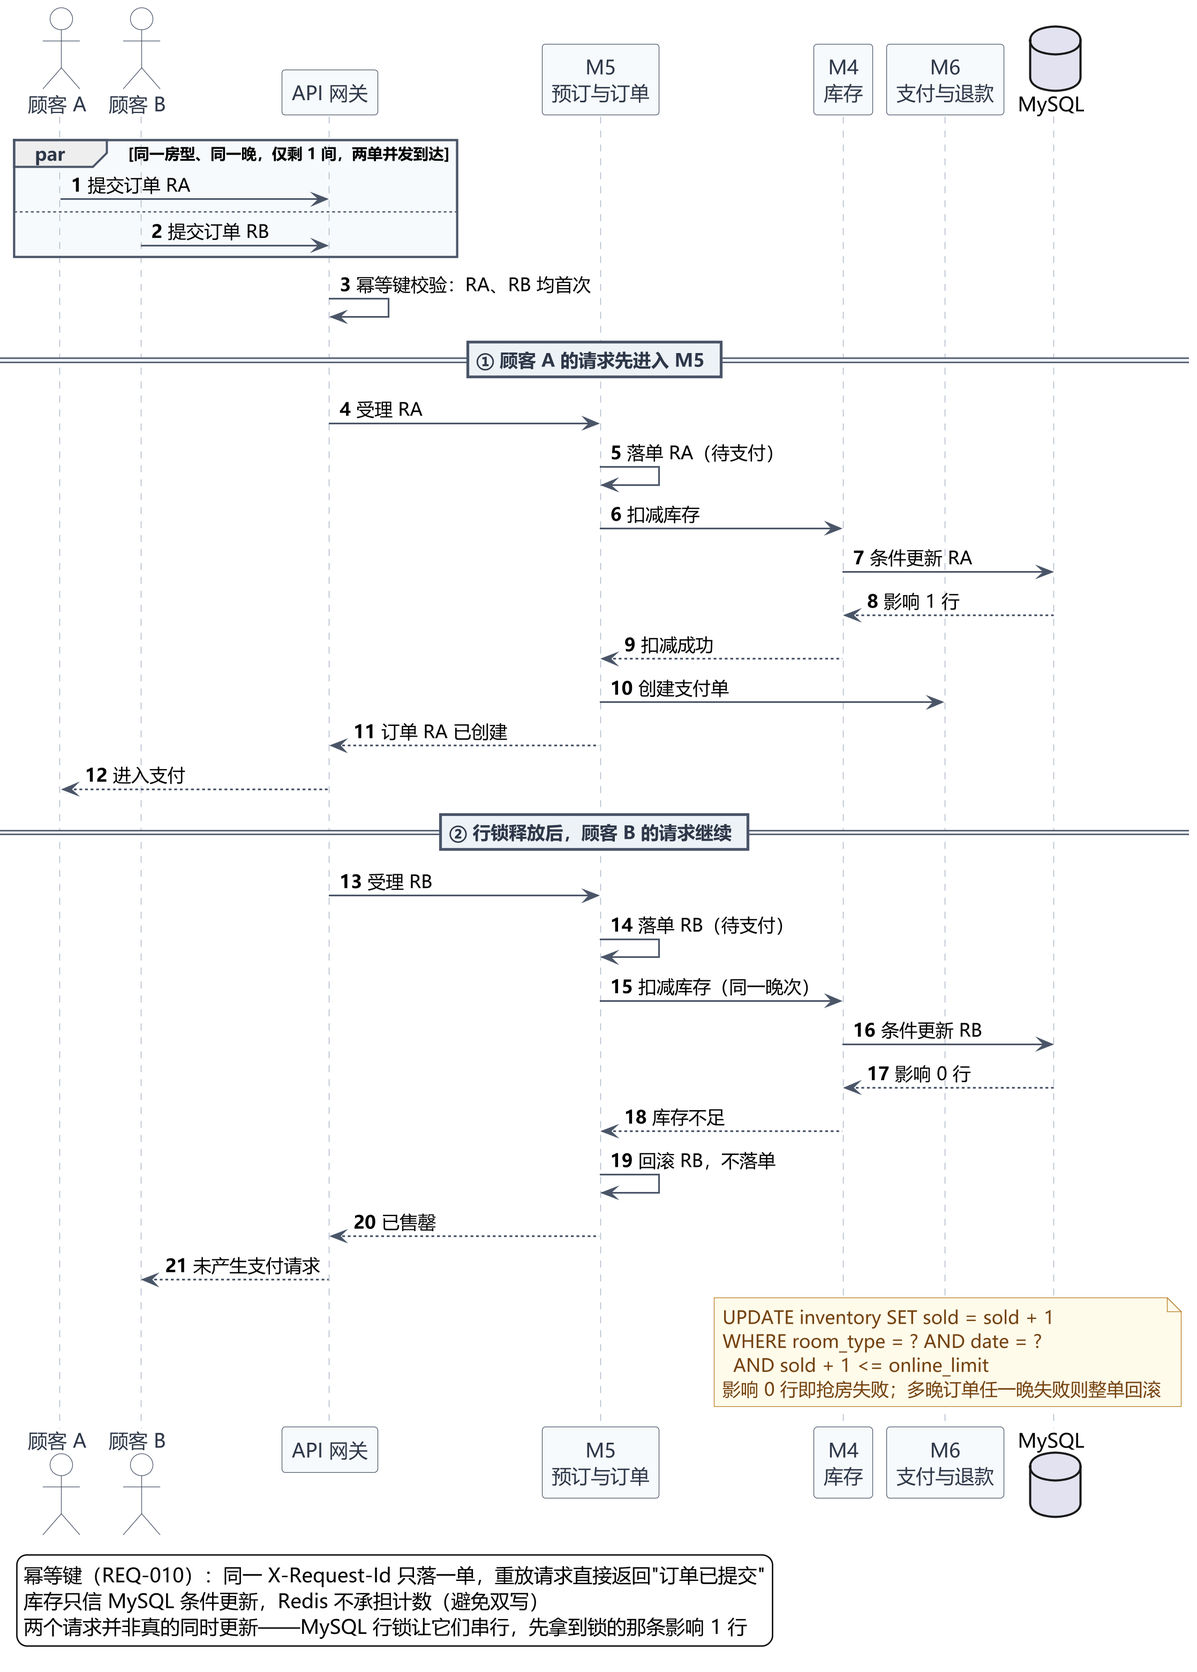
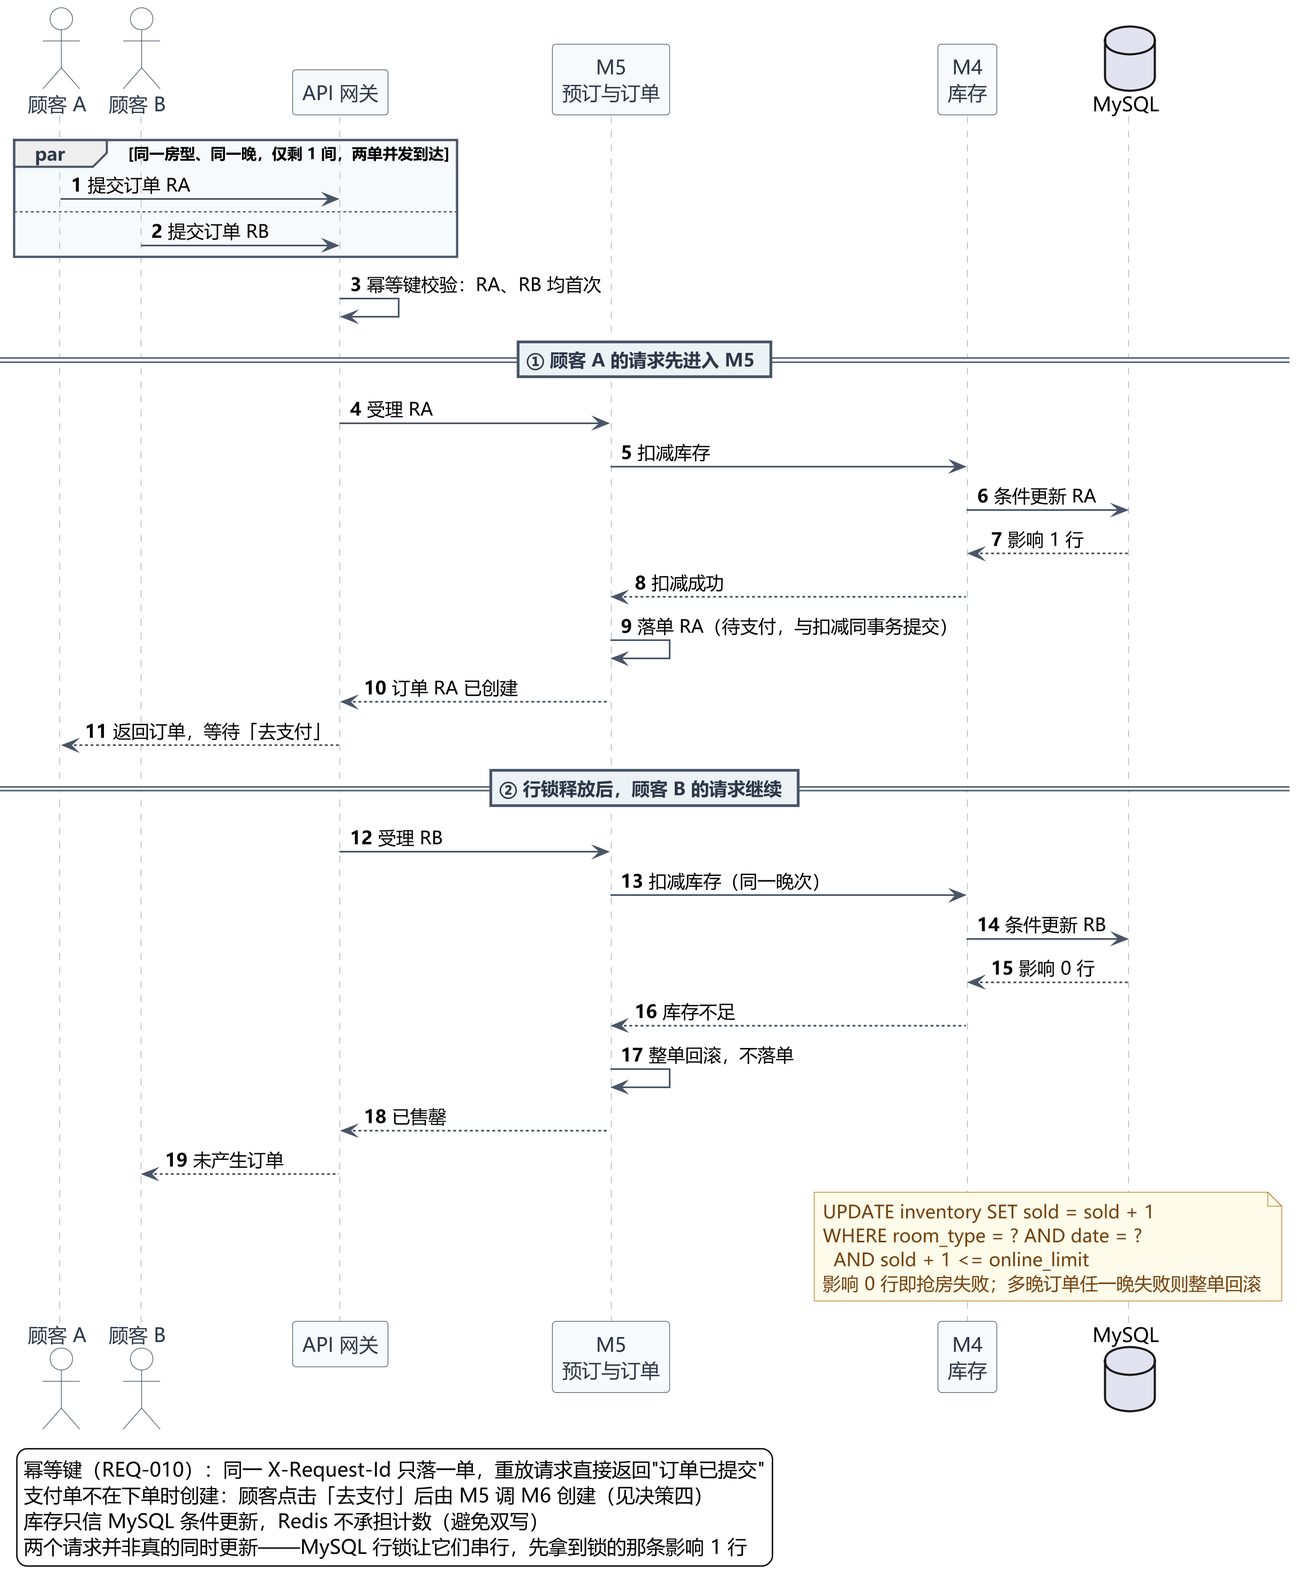
修正下单顺序与数据库缺口，补 git 提交记录
- 并发抢房时序图改为先条件扣减库存再落单，下单阶段不创建支付单
- 第 4 章补 region、schedule、price_range 三张表，表数 17 改为 20
- room 表补 store_id，房号改为门店内复合唯一
- 第 7 章新增 git 提交与人工修改记录，模块计数统一为八个业务加两个支撑
- 报告 58 页

diff --git a/实验报告/ch7.tex b/实验报告/ch7.tex
@@ -19,7 +19,7 @@ U-03 & 五处职责与接口分歧 & 职责表、组件图画法 & 初稿省略 
 U-04 & 19 屏跨屏数据一致性核对 & 修正后的 19 屏界面 & 库存、金额与取消规则不一致 \\
 U-05 & UML 图稿制作与排版 & 16 张 PlantUML 图及 PNG & 自动布局交叉，图稿还需核对业务含义 \\
 U-06 & UI 初稿制作与工具调整 & 19 屏 HTML/CSS 初稿及 Pixso 导出图 & 单屏生成易遗漏字段或编造数字 \\
-U-07 & 数据库表结构起草 & 第 4 章的 17 张表与约束说明 & 字段与业务流程的对应仍须逐项检查 \\
+U-07 & 数据库表结构起草 & 第 4 章的 20 张表与约束说明 & 初稿漏掉片区、排班、价格区间三个实体对应的表 \\
 \bottomrule
 \end{tabularx}
 \end{table}
@@ -98,7 +98,7 @@ U-07 & 数据库表结构起草 & 第 4 章的 17 张表与约束说明 & 字段
 
 \textbf{使用场景。} 为类图和下单、排房、退款等流程补出可供后续实现参考的数据存储结构。
 
-\textbf{生成结果。} AI 根据需求和类图起草第 4 章的 17 张表，列出主要字段、索引、唯一约束和条件更新方案；日库存按房型与日期记录，订单明细保存逐晚价格快照。
+\textbf{生成结果。} AI 根据需求和类图起草第 4 章的 17 张表，列出主要字段、索引、唯一约束和条件更新方案；日库存按房型与日期记录，订单明细保存逐晚价格快照。片区、排班、价格区间三个实体只在类图和界面中出现，初稿没有给出对应的表。
 
 \textbf{讨论与修改。} 这些表沿用 U-01--U-03 和 U-05 中讨论确定的模块与类结构。下单链路中，我提出先建订单再扣库存会让多人同时争最后一间房的问题，讨论后改为同一事务内先扣库存再建订单；排房记录和审批类的拆分也来自前述逐项选择。AI 再把这些决定反映到表和约束说明中。具体字段、索引主要由 AI 起草。
 
@@ -113,6 +113,43 @@ U-07 & 数据库表结构起草 & 第 4 章的 17 张表与约束说明 & 字段
 \textbf{校对、整改与我的理解。} 我逐章对照需求和图稿，指出架构说明过长、类图说明像在教读者看图、第 6 章配色参数与实验内容关系不大，要求 AI 删改。报告也写入我在讨论中形成的判断：下单先占「房型 $\times$ 日期」库存，入住前才分配具体房间；条件更新能防止最后一间房超卖，却不能保证严格按请求到达顺序成交。这些边界在第 3--5 章分别说明。
 
 \textbf{优缺点与修改结果。} AI 能较快形成完整初稿并查找跨章不一致；它也容易写出空泛的解释，批量压缩时可能删掉业务条件。修改后的报告保留具体设计决定、图表和需求依据；文字是否准确仍以实验一需求及最终图稿核对。
+
+\subsection{git 提交与人工修改记录}
+
+\textbf{记录方式。} 仓库从实验二第一版设计稿建立，此后每轮改动单独提交，提交信息写实际改了什么，不把 AI 初稿和人工修改拆成两个编造出来的提交。截至本轮修改前共 9 次提交：
+
+\begin{table}[H]
+\centering
+\caption{主要提交与改动性质}
+\tabfont
+\begin{tabularx}{\textwidth}{@{}L{1.6cm}L{2.0cm}X@{}}
+\toprule
+提交 & 日期 & 改动内容与性质 \\
+\midrule
+\texttt{c9c2ba3} & 2026-11-01 & 基线入库：报告、16 张 UML、16 屏 UI 的定稿 \\
+\texttt{6ce9ba9} & 2026-11-01 & 补记排版、出图与核对阶段的实际问题 \\
+\texttt{fe80d2b} & 2026-11-01 & 补齐 17--19 屏；界面人物改为虚构角色，避免使用真实姓名 \\
+\texttt{4d22af0} & 2026-11-08 & 保存 Pixso 中调整后导出的 UI 图片 \\
+\texttt{74b7a2e} & 2026-11-08 & 按本人意见重写报告正文与 AI 使用记录 \\
+\texttt{a9d9f76} & 2026-11-08 & 报告写作一节改为「先讨论、再起草、后校对」的实际顺序 \\
+\texttt{347934e} & 2026-11-08 & 统一 AI 设计与总结两处的协作流程表述 \\
+\texttt{8544262} & 2026-11-08 & 第 8.3 节由八项未完成事项精简为两项 \\
+\texttt{a822c19} & 2026-11-08 & 删除实验二不要求的「与实验三的衔接」一节 \\
+\bottomrule
+\end{tabularx}
+\end{table}
+
+\textbf{人工修改的三类证据。} 提交记录本身只说明改了什么，判断依据分别如下。
+
+\begin{enumerate}[leftmargin=3.2em]
+  \item \textbf{推翻 AI 的技术方案。} 起草 U-07 时，AI 给的顺序是先建订单再扣库存。我指出这样多人抢最后一间房时会超卖，要求改为同一事务内先条件扣减库存、再建订单；支付单也不在下单时创建，改为点击「去支付」时由 M5 调 M6 创建。这一改动同时反映在类图、时序图和第 3、4 章。
+  \item \textbf{压缩篇幅、改变交代口径。} 第 8.3 节初稿列了八项未完成事项，我认为其中多数是前文已说明的设计边界，重复罗列只会给评分提供判据，要求收成「接口参数与错误码」「现有界面的少量异常提示」两项。第 1 章、第 3 章和第 5 章的教学式铺垫也由我逐次指出后删除。
+  \item \textbf{删掉要求之外的内容。} 报告末尾原有的「对实验三的衔接」一节，我对照实验二要求确认并非必需，要求删除；第 6.1.1 节的布局配色参数同样因与实验内容无关而删除。
+\end{enumerate}
+
+\textbf{本轮新增的三张表。} 对照类图核对数据表时发现，类图里的片区、排班、价格区间三个实体在第 4 章没有对应表，\texttt{user} 和 \texttt{store} 的 \texttt{region\_id} 也因此没有父表。据此补 \texttt{region}、\texttt{schedule}、\texttt{price\_range} 三张表，表数由 17 改为 20，属本轮人工核对后发现的缺口。
+
+\textbf{早期迭代的处理。} 首次入库之前的设计迭代（模块从 10 个减到 9 个又回到 10 个、类图十余版、状态图二十余版）没有以提交形式保留。把它拆成「AI 初稿 / 人工修改」两个提交可以做出好看的差异记录，但那个初稿是按最终稿反推的，不是当时真实的文件，因此没有这样补。真实过程记在本章各条记录和 \texttt{\_过程材料/AI使用记录.md} 中。
 
 \subsection{大模型如何辅助软件设计}
 

diff --git a/实验报告/ch4.tex b/实验报告/ch4.tex
@@ -20,7 +20,7 @@
 
 \subsection{核心表清单}
 
-共 17 张表，其中 12 张核心表承载业务，5 张辅助表承载流转与留痕。
+共 20 张表：12 张核心表承载业务，5 张辅助表承载流转与留痕，3 张组织与配置表承载片区、排班与平台价格区间。
 
 \begin{table}[H]
 \centering
@@ -48,12 +48,32 @@
 \texttt{audit\_log} & 审计日志 & 只增不改，无 UPDATE/DELETE 权限 \\
 \texttt{notice} & 通知记录 & 失败原因、重试次数、下次重试时间 \\
 \texttt{reconciliation} & 对账记录 & 每日差异与处理结果 \\
+\midrule
+\texttt{region} & 片区 & 片区编号与名称；门店的上级组织 \\
+\texttt{schedule} & 排班 & 唯一（员工，日期，班次）；同时引用门店与员工 \\
+\texttt{price\_range} & 价格区间 & 平台按门店下发的价格上下限与生效日期 \\
 \bottomrule
 \end{tabularx}
 \end{table}
 \subsection{表结构}
 
-\subsubsection{账号与门店}
+\subsubsection{账号、门店与组织}
+
+\begin{table}[H]
+\centering
+\caption{\texttt{region} 片区表}
+\tabfont
+\begin{tabularx}{\textwidth}{@{}L{2.7cm}L{2.9cm}L{2.6cm}X@{}}
+\toprule
+字段 & 类型 & 约束 & 说明 \\
+\midrule
+region\_id & CHAR(20) & PK & 片区编号 \\
+name & VARCHAR(32) & UNIQUE & 片区名称 \\
+\bottomrule
+\end{tabularx}
+\end{table}
+
+片区是平台地区负责人的数据范围单位：\texttt{user.region\_id} 与 \texttt{store.region\_id} 都指向本表，负责人只看到本片区内的门店、员工与绩效（REQ-007、REQ-026）。
 
 \begin{table}[H]
 \centering
@@ -77,6 +97,27 @@ status & TINYINT & NOT NULL & 1 正常 / 2 停用 \\
 
 \texttt{store} 表字段为 \texttt{store\_id}（PK）、\texttt{name}、\texttt{city}、\texttt{area}（地段）、\texttt{region\_id}（FK）、\texttt{business\_status}（1 营业 / 2 停业）。停业只影响新订单，不影响已有订单（REQ-006）。
 
+\begin{table}[H]
+\centering
+\caption{\texttt{schedule} 排班表}
+\tabfont
+\begin{tabularx}{\textwidth}{@{}L{2.7cm}L{2.9cm}L{2.6cm}X@{}}
+\toprule
+字段 & 类型 & 约束 & 说明 \\
+\midrule
+schedule\_id & CHAR(20) & PK & 排班编号 \\
+user\_id & CHAR(20) & FK & 前台账号 \\
+store\_id & CHAR(20) & FK & 所属门店，须与 \texttt{user.store\_id} 一致 \\
+work\_date & DATE & NOT NULL & 班次日期 \\
+shift & TINYINT & NOT NULL & 1 早班 / 2 中班 / 3 晚班 \\
+check\_in\_at & DATETIME & NULL & 打卡上班时间 \\
+check\_out\_at & DATETIME & NULL & 打卡下班时间 \\
+\bottomrule
+\end{tabularx}
+\end{table}
+
+排班以「员工、日期、班次」唯一，同一前台在同一天的不同班次可以各有一条记录。打卡时间记在同一条记录上而不另建表：打卡只对已排的班次有意义，分离后反而需要额外校验两者对应关系（REQ-006、REQ-026）。
+
 \subsubsection{房源}
 
 \begin{table}[H]
@@ -98,14 +139,17 @@ on\_sale & TINYINT & NOT NULL & 1 上架 / 2 下架 \\
 \midrule
 \multicolumn{4}{@{}l}{\textbf{room 房间}} \\
 room\_id & CHAR(20) & PK & 房间编号 \\
+store\_id & CHAR(20) & FK & 所属门店，须与房型的所属门店一致 \\
 room\_type\_id & CHAR(20) & FK & 所属房型 \\
-room\_no & VARCHAR(10) & UNIQUE(门店) & 房号，如 408 \\
+room\_no & VARCHAR(10) & 复合唯一 & 房号，如 408；唯一索引为（store\_id, room\_no） \\
 floor & TINYINT & NOT NULL & 楼层；房型与楼层绑定，见 1.5 节 \\
 status & TINYINT & NOT NULL & 六种房态之一 \\
 repair\_until & DATE & NULL & 预计修复日期，为空表示无维修计划 \\
 \bottomrule
 \end{tabularx}
 \end{table}
+
+\texttt{room} 表冗余保存 \texttt{store\_id}，是为了让「同一门店房号唯一、不同门店可重号」能由唯一索引直接保证；若只保留 \texttt{room\_type\_id}，唯一约束就要跨表引用房型的所属门店，数据库无法建立这样的索引。写入房间时校验 \texttt{store\_id} 与房型一致。
 
 \texttt{repair\_until} 这一列是 M4 计算可售上限的依据。它放在房间档案上而不是工单上，是为了让库存只依赖 M2 一个模块（见 3.3 节边界约定一）。同一房间重复登记维修只覆盖该列，不重复扣减（REQ-034）。
 
@@ -146,6 +190,26 @@ offline\_sold & SMALLINT & NOT NULL DEFAULT 0 & 线下已售 \\
 \]
 
 店长可手动下调线上可售上限，但不得高于公式值；这一设置保留了 REQ-006 的调整入口，同时满足 REQ-033 的上限约束。
+
+\begin{table}[H]
+\centering
+\caption{\texttt{price\_range} 价格区间表}
+\tabfont
+\begin{tabularx}{\textwidth}{@{}L{2.7cm}L{2.9cm}L{2.6cm}X@{}}
+\toprule
+字段 & 类型 & 约束 & 说明 \\
+\midrule
+range\_id & CHAR(20) & PK & 区间编号 \\
+store\_id & CHAR(20) & FK & 接收该区间的门店 \\
+effective\_date & DATE & NOT NULL & 生效日期 \\
+min\_price & DECIMAL(10,2) & NOT NULL & 当日价格下限 \\
+max\_price & DECIMAL(10,2) & NOT NULL & 当日价格上限 \\
+created\_by & CHAR(20) & FK & 下发该区间的平台地区负责人 \\
+\bottomrule
+\end{tabularx}
+\end{table}
+
+价格区间按「门店、生效日期」生效，同一天有多个区间时取最新一条；店长设定日价时校验其落在区间内。区间下调后已超出的当日价格不自动改价，只提示店长调整（REQ-007）。区间本身不参与下单链路，只在下单取价时用于校验，因此与日价分开存表。
 
 \subsubsection{订单与明细}
 

diff --git a/实验报告/app.tex b/实验报告/app.tex
@@ -88,25 +88,22 @@ REQ-036 & 账号注册与登录 & —— & —— & 待确认，不覆盖 \\
 \noindent\hspace*{4em}UML时序图\_并发抢房.png\qquad UML时序图\_改价互斥.png\par
 \noindent\hspace*{4em}UML时序图\_支付回调.png\qquad UML时序图\_超时释放与对账.png\par
 \noindent\hspace*{2em}UI界面/\par
-\noindent\hspace*{4em}01\_home\_search.png\qquad 02\_search\_result.png\par
-\noindent\hspace*{4em}03\_hotel\_detail.png\qquad 04\_order\_confirm.png\par
-\noindent\hspace*{4em}05\_payment.png\qquad 06\_my\_orders.png\par
-\noindent\hspace*{4em}07\_review\_submit.png\qquad 08\_room\_board.png\par
-\noindent\hspace*{4em}09\_checkin.png\qquad 10\_housekeeping.png\par
-\noindent\hspace*{4em}11\_walkin\_order.png\qquad 12\_price\_calendar.png\par
-\noindent\hspace*{4em}13\_approval\_center.png\qquad 14\_roster\_review.png\par
-\noindent\hspace*{4em}15\_region\_overview.png\qquad 16\_price\_range\_staffing.png\par
-\noindent\hspace*{4em}17\_message\_center.png\qquad 18\_audit\_log.png\par
+\noindent\hspace*{4em}01\_home\_search.png\qquad 02\_search\_result.png\qquad 03\_hotel\_detail.png\par
+\noindent\hspace*{4em}04\_order\_confirm.png\qquad 05\_payment.png\qquad 06\_my\_orders.png\par
+\noindent\hspace*{4em}07\_review\_submit.png\qquad 08\_room\_board.png\qquad 09\_checkin.png\par
+\noindent\hspace*{4em}10\_housekeeping.png\qquad 11\_walkin\_order.png\qquad 12\_price\_calendar.png\par
+\noindent\hspace*{4em}13\_approval\_center.png\qquad 14\_roster\_review.png\qquad 15\_region\_overview.png\par
+\noindent\hspace*{4em}16\_price\_range\_staffing.png\qquad 17\_message\_center.png\qquad 18\_audit\_log.png\par
 \noindent\hspace*{4em}19\_store\_staff.png\par
 }
 
 \section{图的绘制方式}
 
-全部 16 张 UML 图由 PlantUML 绘制，源文件（\texttt{.puml}）与导出图（\texttt{.png}）同名放在 \texttt{UML/} 下，可用以下命令重新生成：
+16 张 UML 图均由 PlantUML 绘制，源文件与导出图同名存放在 \texttt{UML/} 下，重新生成方式如下：
 
 \begin{quote}
 \zihao{5}\ttfamily
 java -jar plantuml.jar -charset UTF-8 -tpng UML/*.puml
 \end{quote}
 
-统一的绘图约定：白底、深灰线、单一强调色；中文字体统一为 Microsoft YaHei；结构图与行为图宽度按内容自适应，时序图与活动图固定较窄的画幅以便插入正文。19 屏界面用 HTML 与 CSS 生成初稿、导入 Pixso 人工调整后，按 2 倍像素密度导出 PNG（顾客端 780 $\times$ 1688，后台 2944 $\times$ 1864，其中含 16\,px 的圆角外框留白），因此插入报告后文字仍可辨认；产出流程见第 6 章开头。
+绘图约定为白底、深灰线、单一强调色，中文字体统一为 Microsoft YaHei。19 屏界面由 HTML/CSS 生成初稿、经 Pixso 调整后按 2 倍像素密度导出，流程见第 6 章开头。

diff --git a/实验报告/ch8.tex b/实验报告/ch8.tex
@@ -15,7 +15,7 @@
 \midrule
 写明软件的主要功能 & 第 2 章 & 10 模块 + 36 条追溯 & 需求逐条落模块，跨模块与不覆盖的单独标注 \\
 架构设计 UML 与设计原因 & 第 3 章 & 包图 / 组件图 / 部署图 + 八条决策 & 描述模块关系与主要取舍 \\
-数据库设计 & 第 4 章 & 17 张表 & 给出字段、索引及库存等业务约束 \\
+数据库设计 & 第 4 章 & 20 张表 & 给出字段、索引及库存等业务约束 \\
 三类 UML 图，总数不少于四张，类图必画 & 第 5 章 & 16 张 & 结构 4、行为 8、交互 4，全部 PlantUML 绘制 \\
 各模块 UI 界面及功能描述 & 第 6 章 & 19 屏 & 四端各屏的元素、状态与对应需求 \\
 AI 使用过程记录 & 第 7 章 & 设计阶段 7 组，另有报告改稿 & 说明事前讨论、AI 生成与本人校改 \\

diff --git a/实验报告/ch1.tex b/实验报告/ch1.tex
@@ -29,7 +29,7 @@
 \midrule
 功能与模块 & 第 2 章 & 四类角色各能做什么，实验一的需求分别落在哪个模块。 \\
 架构与模块交互 & 第 3 章 & 模块职责、交互关系及划分依据。 \\
-数据与 UML & 第 4、5 章 & 17 张表的关键字段与约束；类图、状态图和时序图如何对应业务规则。 \\
+数据与 UML & 第 4、5 章 & 20 张表的关键字段与约束；类图、状态图和时序图如何对应业务规则。 \\
 界面设计 & 第 6 章 & 19 屏界面分别服务哪些角色和功能模块。 \\
 AI 辅助与人工核对 & 第 7 章 & 每次辅助生成了什么、发现了什么问题、最后怎样修改。 \\
 \bottomrule

diff --git a/实验报告/ch3.tex b/实验报告/ch3.tex
@@ -25,7 +25,7 @@
 \begin{itemize}
   \item \textbf{表现层}：按角色展示界面并校验表单；业务校验仍由服务端执行（REQ-027）。
   \item \textbf{接入层}：处理鉴权、限流、幂等键和审计记录。
-  \item \textbf{领域层}：按十个业务模块组织规则，通过仓储接口访问数据。
+  \item \textbf{领域层}：按八个业务模块组织规则，通过仓储接口访问数据。
   \item \textbf{基础设施层}：提供仓储实现、消息队列、Redis 及支付、短信适配器。
 \end{itemize}
 

diff --git a/_过程材料/AI使用记录.md b/_过程材料/AI使用记录.md
@@ -183,3 +183,14 @@
 - **讨论与判断**：本轮修改方向由本人明确提出；UML 类的取舍、组件图画法、排房与下单顺序等选择均取自此前实际讨论。AI 编写图稿与 HTML/CSS 页面、本人在 Pixso 调整部分界面的分工按现有记录描述，不补造具体操作日期。
 - **修改优化后的结果**：`实验报告/ch6.tex`、`ch7.tex`、`ch8.tex` 更新，并补记 U-05--U-07。
 - **优缺点分析**：按产物补记比仅列几次时间更能说明 AI 的实际工作量和人的判断；部分早期生成步骤没有完整逐次记录，不能从最终文件倒推每一次调用。
+
+---
+
+### R-06 模拟评审后的四处修改
+
+- **时间**：2026-11-08
+- **使用场景与输入**：本人要求另起一个评价 Agent，以助教视角按实验二要求给报告打分，再按结论修改。输入是当时的报告 PDF、UML、UI、提交包和实验一需求。
+- **AI 生成结果**：评价 Agent 给出 86 分的模拟评分和 8 条已证实问题，其中 zip 未同步、并发抢房时序图与正文矛盾、类图中的片区/排班/价格区间三表缺失、第 7 章无 git 与人工修改记录四条影响最大。
+- **讨论与判断**：本人核对后选定四项修改：修时序图与正文的下单顺序、补三张表、补 git 提交与人工修改记录、统一模块计数并修 room 表约束。评价 Agent 自报的“ch4 使用 region_id 却无父表”经核对属实（ch4 中写作 `region\_id`），据此一并补表。评分是本轮自拟口径的模拟值，不代表教师评分。
+- **修改优化后的结果**：`UML时序图_并发抢房.puml` 改为先扣库存再落单、下单时不创建支付单；第 4 章表数由 17 增至 20，补 `region`、`schedule`、`price_range`；新增 7.10 节列 9 次真实提交与三类人工修改证据；第 2 章标题与第 3 章统一为“八个业务模块 + 两个支撑模块”；`room` 表补 `store_id` 并改复合唯一约束。报告 58 页。
+- **优缺点分析**：独立评审能发现作者自己看不出的图文矛盾。本轮复核时还出现一次误判：我首次核查时用 `grep region_id` 在 ch4 中没有命中，据此认为评审员看错，实际是 TeX 源码中写作 `region\_id`，属于核对方法的问题，不是评审结论有误。评分只是模拟口径，最终的改动取舍仍由本人决定。

diff --git a/README.md b/README.md
@@ -1,6 +1,6 @@
 # 软件工程实验二 · 小型酒店预订管理系统 设计与建模
 
-把实验一的 36 条需求转成设计：UML 结构与交互模型、十个模块的划分与依赖、17 张表的数据库结构、19 屏界面。
+把实验一的 36 条需求转成设计：UML 结构与交互模型、十个模块的划分与依赖、20 张表的数据库结构、19 屏界面。
 
 ## 目录
 
